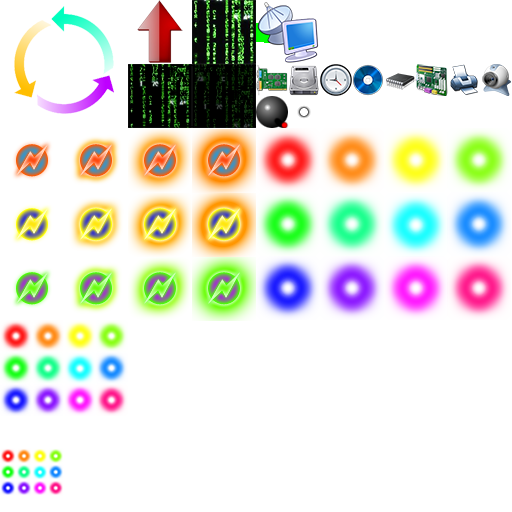
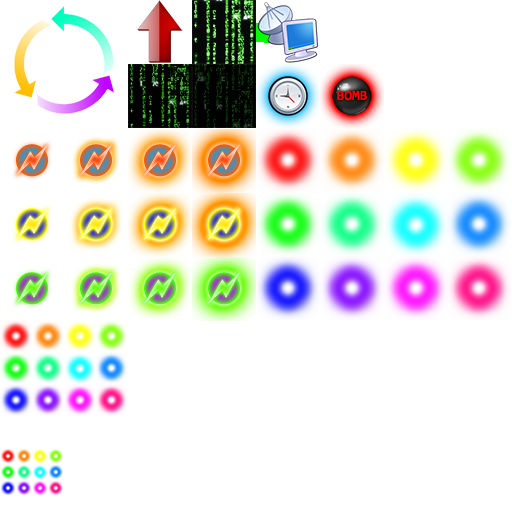
solved the alpha mystery for rotating tiles. adding bonus items

Changed region(s): [[0.5, 0.125, 1.0, 0.25]]

diff --git a/src/GameTable.cpp b/src/GameTable.cpp
@@ -33,6 +33,91 @@ int get_grid_anim_frame2(int i)
 }
 
 
+// vertex, strip, UV data
+CIwSVec2 bvertices[MAX_BONUS * 4];
+CIwSVec2 buvdata[MAX_BONUS * 4];
+uint32 bsend_vertices = 0;
+CIwTexture* bonus_texture = NULL;
+
+void myIwGxInitBonus()
+{
+    // Create empty texture object
+    bonus_texture = new CIwTexture;
+    // Load image data from disk into texture
+    bonus_texture->LoadFromFile("arrows.png");
+    // "Upload" texture to VRAM
+    bonus_texture->Upload();
+    //
+    bsend_vertices = 0;
+}
+
+void myIwGxPrepareBonus()
+{
+    Iw2DFinishDrawing();
+    IwGxClear(IW_GX_DEPTH_BUFFER_F);
+    //
+    bsend_vertices = 0;
+}
+
+void myIwGxDrawBonus(int x, int y, CIwSVec2 texpos, iwangle rotval)
+{
+    CIwMat2D transformMatrix;
+    int i;
+    //
+    if (bsend_vertices + 4 > (MAX_BONUS * 4))
+    {
+        myIwGxDoneBonus();
+        bsend_vertices = 0;
+    }
+    transformMatrix = CIwMat2D::g_Identity;
+    transformMatrix.SetRot(rotval, CIwVec2(x, y));
+    //
+    // 0 = top-left
+    // 1 = bottom-left
+    // 2 = bottom-right
+    // 3 = top-right
+    //
+    bvertices[0].x = x - 32;
+    bvertices[0].y = y - 32;
+    bvertices[1].x = x - 32;
+    bvertices[1].y = y + 32;
+    bvertices[2].x = x + 32;
+    bvertices[2].y = y + 32;
+    bvertices[3].x = x + 32;
+    bvertices[3].y = y - 32;
+    //
+    buvdata[0].x = (texpos.x) << 3;
+    buvdata[0].y = (texpos.y) << 3;
+    buvdata[1].x = (texpos.x) << 3;
+    buvdata[1].y = (texpos.y + 64) << 3;
+    buvdata[2].x = (texpos.x + 64) << 3;
+    buvdata[2].y = (texpos.y + 64) << 3;
+    buvdata[3].x = (texpos.x + 64) << 3;
+    buvdata[3].y = (texpos.y) << 3;
+    //
+    for (i = 0; i < 4; i++)
+        bvertices[bsend_vertices + i] = transformMatrix.TransformVec(bvertices[bsend_vertices + i]);
+    bsend_vertices += 4;
+    //
+}
+
+void myIwGxDoneBonus()
+{
+    IwGxSetScreenSpaceSlot(3);
+    IwGxSetVertStreamScreenSpace( bvertices, bsend_vertices );
+    CIwMaterial *pMat = IW_GX_ALLOC_MATERIAL();
+    pMat->SetAlphaMode( CIwMaterial::ALPHA_BLEND );
+    pMat->SetTexture( bonus_texture );
+    pMat->SetColAmbient( 0xFF, 0xFF, 0xFF, 0xFF );
+    IwGxSetMaterial( pMat );
+    IwGxSetUVStream( buvdata );
+    // IwGxSetColStream( colors, quads * 4 );
+    IwGxSetColStream( NULL );
+    IwGxDrawPrims( IW_GX_QUAD_LIST, NULL, bsend_vertices );
+    IwGxFlush();
+}
+
+
 extern CIw2DImage* g_tiles;
 
 void GameTable::Worm::update_worm()
@@ -230,10 +315,13 @@ GameTable::GameTable(void)
     trigger_anim = -1;
     trigger_circle = -1;
     the_worm.SetWorm(0, 0);
+    myIwGxInitBonus();
+    bonus_counter = 0;
 }
 
 GameTable::~GameTable(void)
 {
+    delete bonus_texture;
 }
 
 void GameTable::reset_table(int percent_missing_links)

diff --git a/src/game.cpp b/src/game.cpp
@@ -186,7 +186,7 @@ void myIwGxDrawTile(int x, int y, CIwSVec2 texpos, iwangle rotval)
     IwGxSetScreenSpaceSlot(3);
     IwGxSetVertStreamScreenSpace( gvertices, gsend_vertices );
     CIwMaterial *pMat = IW_GX_ALLOC_MATERIAL();
-    pMat->SetAlphaMode( CIwMaterial::ALPHA_DEFAULT );
+    pMat->SetAlphaMode( CIwMaterial::ALPHA_BLEND );
     pMat->SetTexture( tile_texture );
     pMat->SetColAmbient( 0xFF, 0xFF, 0xFF, 0xFF );
     IwGxSetMaterial( pMat );
@@ -255,6 +255,7 @@ CGame::CGame()
 
 CGame::~CGame()
 {
+    delete tile_texture;
     delete game_table;
     delete lightning;
 }
@@ -727,6 +728,8 @@ void CGame::Render_PLAY(int framex)
         {
             int dx, dy;
             iwangle line_angle;
+            Iw2DFinishDrawing();
+            IwGxSetScissorScreenSpace(0, 0, Iw2DGetSurfaceWidth(), Iw2DGetSurfaceHeight());
             dx = touch_x - touchdown_x;
             dy = touch_y - touchdown_y;
             if ((dx == 0 && dy == 0) || ((abs(dx) < 16) && (abs(dy) < 16)))
@@ -736,7 +739,7 @@ void CGame::Render_PLAY(int framex)
             i = touchdown_x / 64;
             j = touchdown_y / 64;
             tex_p.x = (grid_codep[game_table->get_grid_connector(i, j)]) << 6;
-            tex_p.y = (CONNECT_NONE - game_table->get_grid_color_shift(i, j)) << 6;//CONNECT_NONE << 6; //(game_table->get_grid_state(i, j)) << 6;
+            tex_p.y = (0) << 6;//CONNECT_NONE << 6; //(game_table->get_grid_state(i, j)) << 6;
             myIwGxDrawTile(grid_positions[i][j].x + 32, grid_positions[i][j].y + 32, tex_p, (line_angle + 0x400) & 0x0fff);
         }
     }

diff --git a/h/GameTable.h b/h/GameTable.h
@@ -27,11 +27,27 @@
 #define FRAMES_FALL    30
 
 #define MAX_WORM       10
+#define MAX_BONUS      32
+
+#define BONUS_NONE     0
+#define BONUS_CLOCK    1
+#define BONUS_BOMB     2
+#define BONUS_CHARGE1  10
+#define BONUS_CHARGE2  11
+#define BONUS_CHARGE3  12
+
+
+void myIwGxInitBonus();
+void myIwGxPrepareBonus();
+void myIwGxDrawBonus(int x, int y, CIwSVec2 texpos, iwangle rotval);
+void myIwGxDoneBonus();
 
 
 class BonusItem
 {
 public:
+    int enabled;
+
     BonusItem(void);
     ~BonusItem(void);
 
@@ -40,7 +56,6 @@ public:
     void DrawBonusItem();
 
 private:
-    int enabled;
     int falling_frame;
     int glowing_frame;
     int target_i, target_j;
@@ -202,6 +217,23 @@ public:
         }
     }
 
+    void AddBonusItem(int ti, int tj, int btype)
+    {
+        int internal_counter = 0;
+        while (bonuses[bonus_counter].enabled == 1)
+        {
+            bonus_counter = (bonus_counter + 1) % MAX_BONUS;
+            internal_counter++;
+            // if all sparkles are already enabled, do nothing
+            if (internal_counter > MAX_BONUS)
+                return;
+        }
+        bonuses[bonus_counter].SetBonusItem(ti, tj, btype);
+    }
+
+    void UpdateBonusItems();
+    void DrawBonusItems();
+
     Worm the_worm;
 
 private:
@@ -209,6 +241,9 @@ private:
     unsigned char grid_clickable[GRID_W][GRID_H];
     unsigned char grid_state[GRID_W][GRID_H];
     unsigned char grid_color_shift[GRID_W][GRID_H];
+
+    BonusItem bonuses[MAX_BONUS];
+    int bonus_counter;
 
     int worm_wait_time;
     int worm_timeout;
